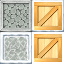
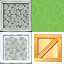
ajout de 2 styles supplementaire. correction du bug de fond vert quand on charge un niveau trop gros.

Changed region(s): [[0.5, 0.0, 1.0, 0.5]]

diff --git a/programme/classes.py b/programme/classes.py
@@ -33,7 +33,7 @@ class Sprite(object):
         self.x=x
         self.y=y
         self.surface=surface
-        if rep not in ('#','$','+','@','.',':'):
+        if rep not in ('#','$','+','@','.',':',' '):
             raise ValueError(rep+" ne peut pas être représenté")
         else:
             self.repr=rep
@@ -230,9 +230,9 @@ class Niveau(object):
                     if self.grilleP[x][y]=='+': ## stelle ##
                         line+=[Sprite(variables['surfaces']['target'],'+',x,y)]
                     else:
-                        line+=[Sprite(variables['surfaces']['blank'],':',x,y)]
+                        line+=[Sprite(variables['surfaces']['space'],' ',x,y)]
                 else:
-                    line+=[Sprite(variables['surfaces']['blank'],':',x,y)]
+                    line+=[Sprite(variables['surfaces']['space'],' ',x,y)]
             self.gameP+=[line]
             
         for x in range(len(self.grilleO)):

diff --git a/programme/constantes.py b/programme/constantes.py
@@ -55,6 +55,7 @@ def setSurfaces():
     variables['surfaces']['world'] = pygame.image.load('images/style1_'+str(variables['spriteSize']*32)+'.png')
     variables['surfaces']['blank'] = pygame.Surface((0,0))
     variables['surfaces']['wall'] = variables['surfaces']['world'].subsurface(0,0,variables['spriteSize']*32,variables['spriteSize']*32)
+    variables['surfaces']['space'] = variables['surfaces']['world'].subsurface(variables['spriteSize']*32,0,variables['spriteSize']*32,variables['spriteSize']*32)
     variables['surfaces']['target'] = variables['surfaces']['world'].subsurface(0,variables['spriteSize']*32,variables['spriteSize']*32,variables['spriteSize']*32)
     variables['surfaces']['element'] = variables['surfaces']['world'].subsurface(variables['spriteSize']*32,variables['spriteSize']*32,variables['spriteSize']*32,variables['spriteSize']*32)
 setSurfaces()
